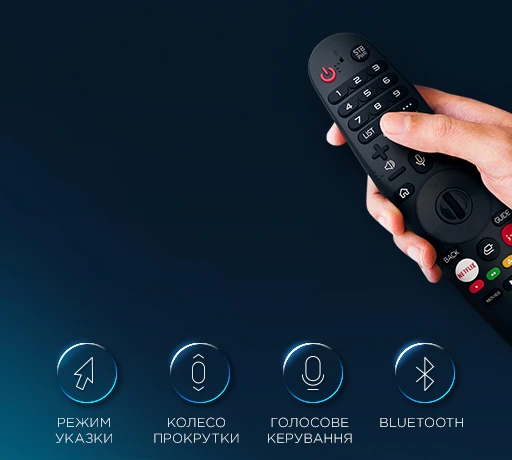
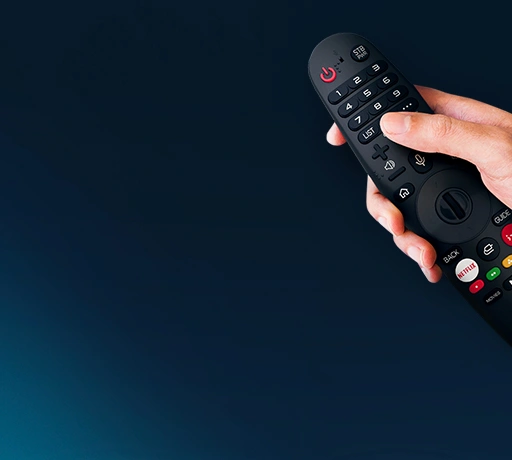
controls benefits added

diff --git a/Site27/index.html b/Site27/index.html
@@ -77,6 +77,28 @@
             <h2 class="controls__title">magic <br> remote <br> control</h2>
             <h3 class="controls__subtitle">Багатофункціональний<br> Smart-пульт</h3>
             <p class="controls__description">Завдяки зручному колесу прокрутки, голосовому управлінню та проcтій навігації magic remote перетворює користування в чисте задоволення.</p>
+
+            <ul class="controls__benefits">
+                <li class="benefits_item">
+                    <img src="./img/benefits-coursor.webp" alt="benefit coursour icon" width="75" height="77" class="benefit__thumb">
+                    <p class="benefit__description">Режим <br> указки</p>
+                </li>
+
+                <li class="benefits_item">
+                    <img src="./img/benefits-scroll.webp" alt="benefit scroll icon" width="75" height="77" class="benefit__thumb">
+                    <p class="benefit__description">Колесо <br> прокрутки</p>
+                </li>
+
+                <li class="benefits_item">
+                    <img src="./img/benefits-micro.webp" alt="benefit microphone icon" width="75" height="77" class="benefit__thumb">
+                    <p class="benefit__description">Голосове <br> керування</p>
+                </li>
+
+                <li class="benefits_item">
+                    <img src="./img/benefits-bluetooth.webp" alt="benefit bluetooth icon" width="75" height="77" class="benefit__thumb">
+                    <p class="benefit__description">Bluetooth</p>
+                </li>
+            </ul>
         </section>
     </div>
 

diff --git a/Site27/src/index.html b/Site27/src/index.html
@@ -77,6 +77,28 @@
             <h2 class="controls__title">magic <br> remote <br> control</h2>
             <h3 class="controls__subtitle">Багатофункціональний<br> Smart-пульт</h3>
             <p class="controls__description">Завдяки зручному колесу прокрутки, голосовому управлінню та проcтій навігації magic remote перетворює користування в чисте задоволення.</p>
+
+            <ul class="controls__benefits">
+                <li class="benefits_item">
+                    <img src="./img/benefits-coursor.webp" alt="benefit coursour icon" width="75" height="77" class="benefit__thumb">
+                    <p class="benefit__description">Режим <br> указки</p>
+                </li>
+
+                <li class="benefits_item">
+                    <img src="./img/benefits-scroll.webp" alt="benefit scroll icon" width="75" height="77" class="benefit__thumb">
+                    <p class="benefit__description">Колесо <br> прокрутки</p>
+                </li>
+
+                <li class="benefits_item">
+                    <img src="./img/benefits-micro.webp" alt="benefit microphone icon" width="75" height="77" class="benefit__thumb">
+                    <p class="benefit__description">Голосове <br> керування</p>
+                </li>
+
+                <li class="benefits_item">
+                    <img src="./img/benefits-bluetooth.webp" alt="benefit bluetooth icon" width="75" height="77" class="benefit__thumb">
+                    <p class="benefit__description">Bluetooth</p>
+                </li>
+            </ul>
         </section>
     </div>
 

diff --git a/Site27/css/style.css b/Site27/css/style.css
@@ -208,7 +208,8 @@ body {
   display: flex;
   flex-direction: column;
   text-align: left;
-  padding-left: 10.1vw; }
+  padding-left: 10.1vw;
+  padding-right: 7.1vw; }
 
 .controls__title {
   color: #a9ebff;
@@ -232,6 +233,27 @@ body {
   color: white;
   margin-left: 0.6vw;
   max-width: 69vw; }
+
+.controls__benefits {
+  display: flex;
+  justify-content: space-between;
+  margin-top: 10.3vw; }
+
+.benefits_item {
+  display: flex;
+  flex-direction: column;
+  align-items: center;
+  width: fit-content; }
+
+.benefit__thumb {
+  width: 14.5vw;
+  height: auto; }
+
+.benefit__description {
+  font-size: 2.8vw;
+  margin-top: 0.8vw;
+  color: white;
+  text-align: center; }
 
 .sound {
   background: url(../img/7.webp) center;

diff --git a/Site27/scss/style.scss b/Site27/scss/style.scss
@@ -247,6 +247,7 @@ body{
   flex-direction: column;
   text-align: left;
   padding-left: 10.1vw;
+  padding-right: 7.1vw;
 }
 
 .controls__title{
@@ -273,6 +274,31 @@ body{
   color: white;
   margin-left: 0.6vw;
   max-width: 69vw;
+}
+
+.controls__benefits{
+  display: flex;
+  justify-content: space-between;
+  margin-top: 10.3vw;
+}
+
+.benefits_item{
+  display: flex;
+  flex-direction: column;
+  align-items: center;
+  width: fit-content;
+}
+
+.benefit__thumb{
+  width: 14.5vw;
+  height: auto;
+}
+
+.benefit__description{
+  font-size: 2.8vw;
+  margin-top: 0.8vw;
+  color: white;
+  text-align: center;
 }
 
 .sound{
